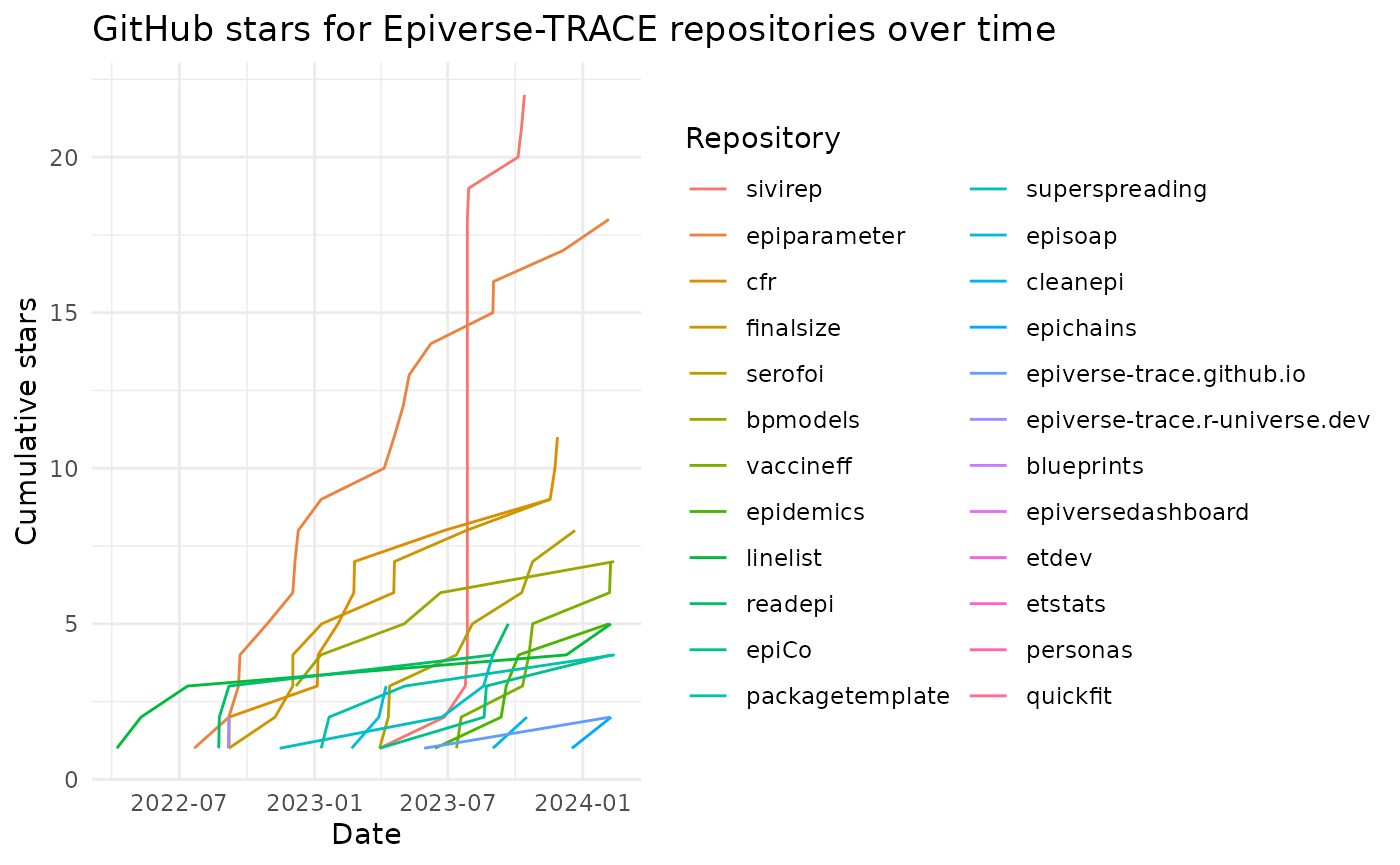
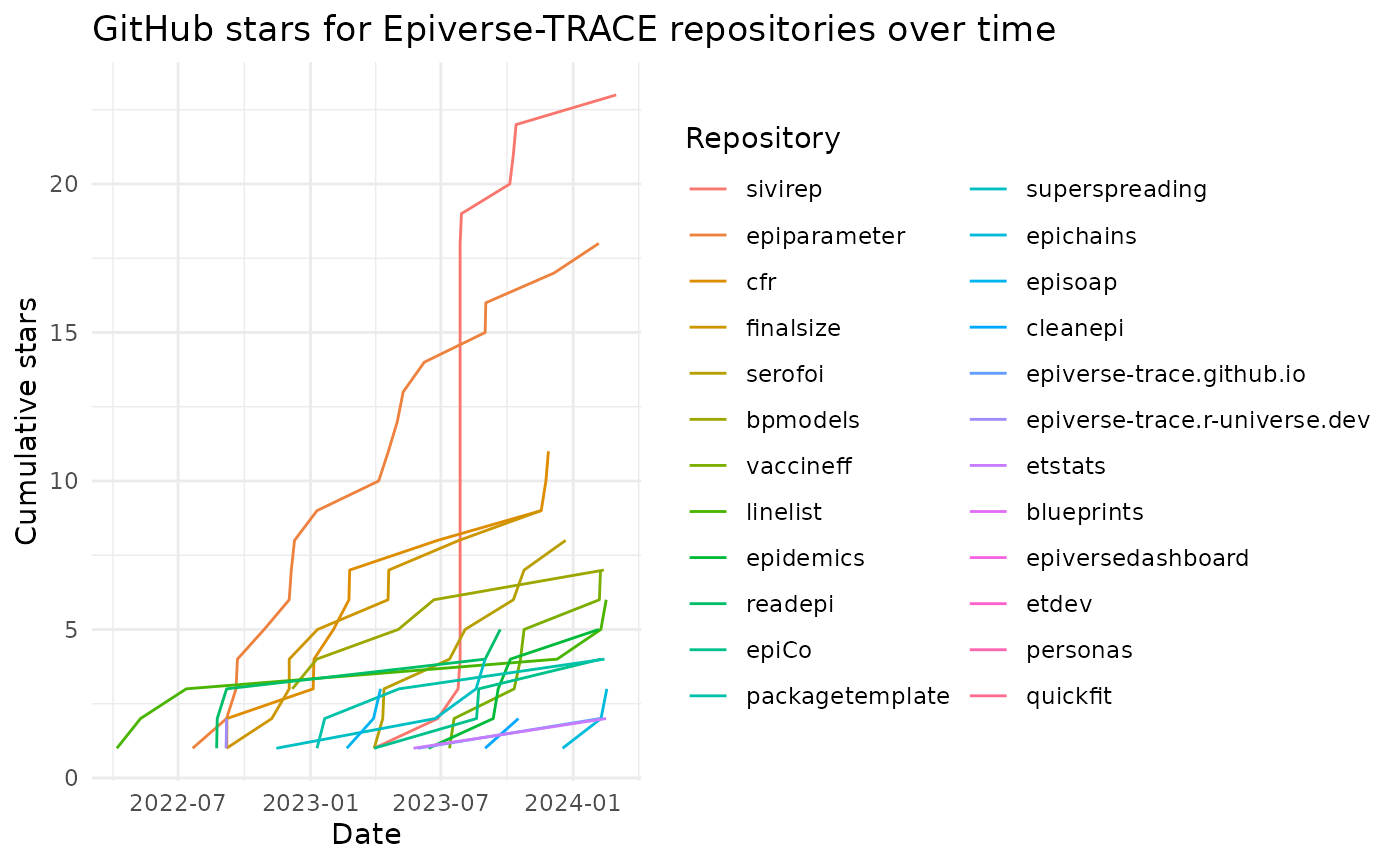
Deploying to gh-pages from @ epiverse-trace/etstats@62435cec01fd1cd0eae2fd64439de8f15d8ff323 🚀

diff --git a/articles/github-statistics.html b/articles/github-statistics.html
@@ -79,7 +79,7 @@
   <main id="main" class="col-md-9"><div class="page-header">
       <img src="" class="logo" alt=""><h1>GitHub statistics</h1>
             
-            <h4 data-toc-skip class="date">2024-02-15</h4>
+            <h4 data-toc-skip class="date">2024-03-01</h4>
       
       <small class="dont-index">Source: <a href="https://github.com/epiverse-trace/etstats/blob/HEAD/vignettes/github-statistics.Rmd" class="external-link"><code>vignettes/github-statistics.Rmd</code></a></small>
       <div class="d-none name"><code>github-statistics.Rmd</code></div>
@@ -90,7 +90,7 @@
 <div class="section level2">
 <h2 id="github-followers">GitHub followers<a class="anchor" aria-label="anchor" href="#github-followers"></a>
 </h2>
-<p>Our Epiverse-TRACE GitHub organization currently has 105
+<p>Our Epiverse-TRACE GitHub organization currently has 111
 followers.</p>
 </div>
 <div class="section level2">
@@ -99,8 +99,8 @@ followers.</p>
 <div class="section level3">
 <h3 id="totals">Totals<a class="anchor" aria-label="anchor" href="#totals"></a>
 </h3>
-<p>In total, we have 126 stars across all Epiverse-TRACE packages. These
-stars come from 76 unique users.</p>
+<p>In total, we have 130 stars across all Epiverse-TRACE packages. These
+stars come from 78 unique users.</p>
 <p><img src="github-statistics_files/figure-html/unnamed-chunk-5-1.png" width="700"></p>
 </div>
 <div class="section level3">
@@ -155,7 +155,7 @@ stars come from 76 unique users.</p>
 <td align="left">linelist</td>
 <td align="right">3</td>
 <td align="right">1</td>
-<td align="right">1</td>
+<td align="right">2</td>
 </tr>
 <tr class="even">
 <td align="left">readepi</td>
@@ -185,7 +185,7 @@ stars come from 76 unique users.</p>
 <td align="left">epichains</td>
 <td align="right">0</td>
 <td align="right">1</td>
-<td align="right">1</td>
+<td align="right">2</td>
 </tr>
 <tr class="odd">
 <td align="left">epidemics</td>
@@ -215,7 +215,7 @@ stars come from 76 unique users.</p>
 <td align="left">etstats</td>
 <td align="right">0</td>
 <td align="right">1</td>
-<td align="right">0</td>
+<td align="right">1</td>
 </tr>
 <tr class="even">
 <td align="left">packagetemplate</td>
@@ -245,7 +245,7 @@ stars come from 76 unique users.</p>
 <td align="left">sivirep</td>
 <td align="right">0</td>
 <td align="right">22</td>
-<td align="right">0</td>
+<td align="right">1</td>
 </tr>
 <tr class="odd">
 <td align="left">vaccineff</td>
@@ -263,7 +263,7 @@ stars come from 76 unique users.</p>
 <td align="left">Total</td>
 <td align="right">25</td>
 <td align="right">88</td>
-<td align="right">11</td>
+<td align="right">15</td>
 </tr>
 </tbody>
 </table>

diff --git a/articles/cran-statistics.html b/articles/cran-statistics.html
@@ -79,7 +79,7 @@
   <main id="main" class="col-md-9"><div class="page-header">
       <img src="" class="logo" alt=""><h1>CRAN statistics</h1>
             
-            <h4 data-toc-skip class="date">2024-02-15</h4>
+            <h4 data-toc-skip class="date">2024-03-01</h4>
       
       <small class="dont-index">Source: <a href="https://github.com/epiverse-trace/etstats/blob/HEAD/vignettes/cran-statistics.Rmd" class="external-link"><code>vignettes/cran-statistics.Rmd</code></a></small>
       <div class="d-none name"><code>cran-statistics.Rmd</code></div>
@@ -90,14 +90,14 @@
 <p>We currently have 3 Epiverse-TRACE packages on CRAN:</p>
 <ul>
 <li><a href="https://cran.r-project.org/package=linelist" class="external-link">linelist</a></li>
-<li><a href="https://cran.r-project.org/package=cfr" class="external-link">cfr</a></li>
 <li><a href="https://cran.r-project.org/package=finalsize" class="external-link">finalsize</a></li>
+<li><a href="https://cran.r-project.org/package=cfr" class="external-link">cfr</a></li>
 </ul>
-<p>In total, Epiverse-TRACE packages on CRAN have been downloaded 14045
+<p>In total, Epiverse-TRACE packages on CRAN have been downloaded 14534
 times.</p>
 <p>Below is a visualization of the breakdown of this grand total by
 package over time.</p>
-<p><img src="cran-statistics_files/figure-html/unnamed-chunk-6-1.png" alt="Cumulative downloads of Epiverse-TRACE on CRAN (linelist, cfr, finalsize)" width="700"></p>
+<p><img src="cran-statistics_files/figure-html/unnamed-chunk-6-1.png" alt="Cumulative downloads of Epiverse-TRACE on CRAN (linelist, finalsize, cfr)" width="700"></p>
 <table class="table">
 <thead><tr class="header">
 <th align="left">package</th>
@@ -110,25 +110,25 @@ package over time.</p>
 <td align="left">finalsize</td>
 <td align="right">260</td>
 <td align="right">2881</td>
-<td align="right">518</td>
+<td align="right">633</td>
 </tr>
 <tr class="even">
 <td align="left">linelist</td>
 <td align="right">3712</td>
 <td align="right">4898</td>
-<td align="right">912</td>
+<td align="right">1169</td>
 </tr>
 <tr class="odd">
 <td align="left">cfr</td>
 <td align="right">NA</td>
 <td align="right">364</td>
-<td align="right">500</td>
+<td align="right">617</td>
 </tr>
 <tr class="even">
 <td align="left">Total</td>
 <td align="right">3972</td>
 <td align="right">8143</td>
-<td align="right">1930</td>
+<td align="right">2419</td>
 </tr>
 </tbody>
 </table></main>
